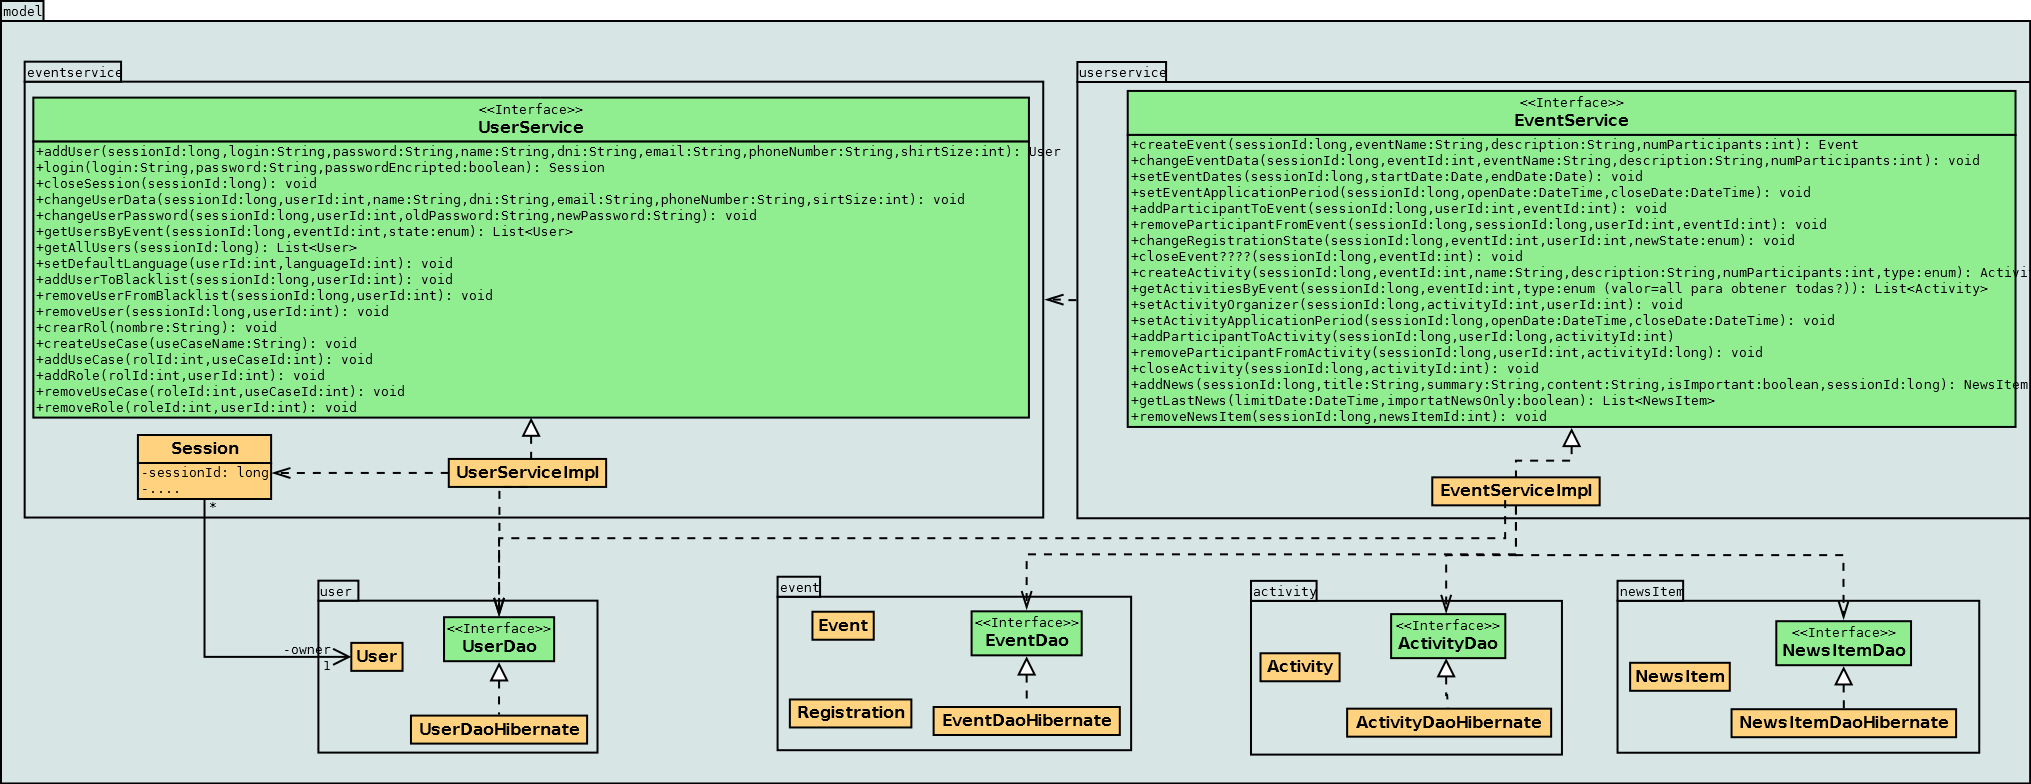
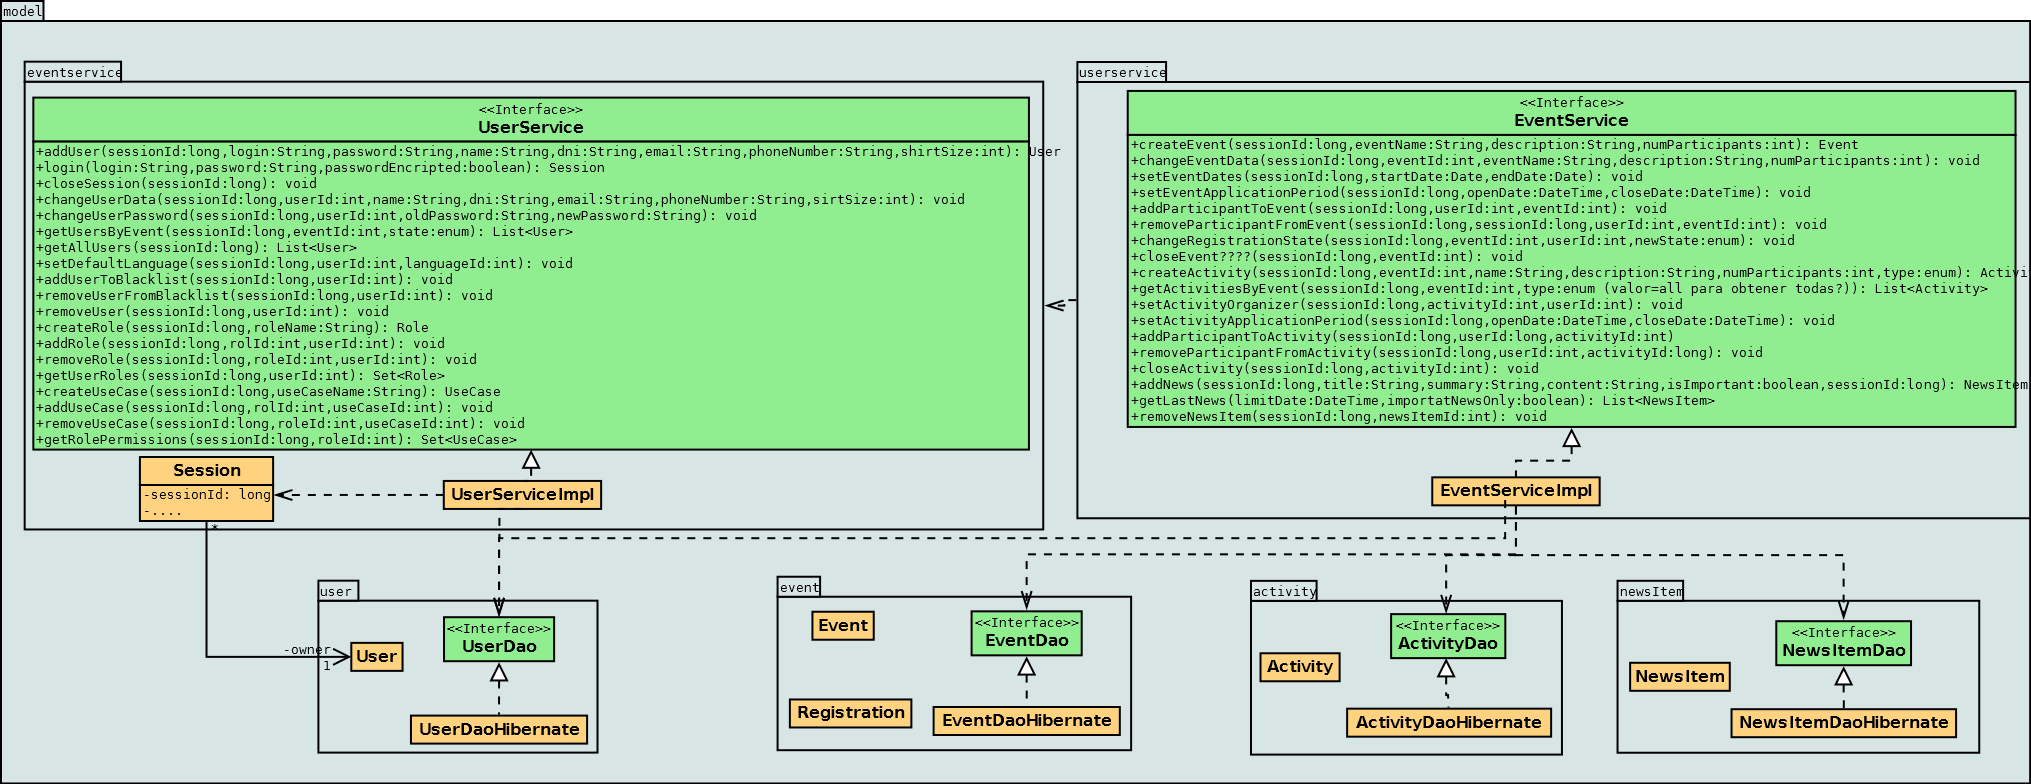
Añadidos mas métodos a UserService y corregidos algunos errores.

Changed region(s): [[0.0, 0.398, 0.5273, 0.7041], [0.4963, 0.3673, 0.5273, 0.398]]

diff --git a/src/main/java/es/ficonlan/web/backend/model/userservice/UserServiceImpl.java b/src/main/java/es/ficonlan/web/backend/model/userservice/UserServiceImpl.java
@@ -1,6 +1,7 @@
 package es.ficonlan.web.backend.model.userservice;
 
 import java.util.List;
+import java.util.Set;
 import java.util.concurrent.ConcurrentHashMap;
 
 import org.springframework.beans.factory.annotation.Autowired;
@@ -9,9 +10,12 @@ import org.springframework.transaction.annotation.Transactional;
 
 import es.ficonlan.web.backend.model.registration.Registration.RegistrationState;
 import es.ficonlan.web.backend.model.role.Role;
+import es.ficonlan.web.backend.model.role.RoleDao;
 import es.ficonlan.web.backend.model.useCase.UseCase;
+import es.ficonlan.web.backend.model.useCase.UseCaseDao;
 import es.ficonlan.web.backend.model.user.User;
 import es.ficonlan.web.backend.model.user.UserDao;
+import es.ficonlan.web.backend.model.util.exceptions.InstanceException;
 import es.ficonlan.web.backend.model.util.exceptions.ServiceException;
 
 /**
@@ -28,27 +32,51 @@ public class UserServiceImpl implements UserService {
 	@Autowired
 	private UserDao userDao;
 	
-	private boolean checkPermissions(Session session, String useCase) throws ServiceException {
+	@Autowired
+	private RoleDao roleDao;
+	
+	@Autowired
+	private UseCaseDao useCaseDao;
+
+	/**
+	 * If the target user of the operation is the session owner -> Operation allowed<br>
+	 * If the target user of the operation isn't the session owner -> Check permissions
+	 * 
+	 * @param sessionId
+	 * @param userId Id of the target user of the operation.
+	 * @param useCase
+	 * @throws ServiceException
+	 */
+	private void checkPermissions(long sessionId, int userId, String useCase) throws ServiceException{
+		if (!openSessions.containsKey(sessionId)) throw new ServiceException(01,useCase,"Invalid session");
+		Session session = openSessions.get(sessionId);
+		if (session.getUser().getUserId() != userId) checkPermissions(session, useCase);
+	}
+	
+	private void checkPermissions(long sessionId, String useCase) throws ServiceException {
+		if (!openSessions.containsKey(sessionId)) throw new ServiceException(01,useCase,"Invalid session");
+		checkPermissions(openSessions.get(sessionId), useCase);	
+	}
+	
+	private void checkPermissions(Session session, String useCase) throws ServiceException{
 		for(Role r:session.getUser().getRoles()){
 		    for (UseCase uc: r.getUseCases()){
-		    	if (uc.getUserCaseName().contentEquals("useCase")) return true;
+		    	if (uc.getUserCaseName().contentEquals(useCase)) return;
 		    }
 		}
-		return false;
+		throw new ServiceException(02, useCase,"Permission denied");	
 	}
 	
 	@Transactional
 	public User addUser(long sessionId, String name, String login, String password, String dni, String email, String phoneNumber, int shirtSize) throws ServiceException {
-		if (!openSessions.containsKey(sessionId)) throw new ServiceException(01,"addUser","Invalid session");
-		if(!checkPermissions(openSessions.get(sessionId),"addUser")) throw new ServiceException(02,"addUser","Permission denied");
-		User user;
-		user = userDao.findUserBylogin(login);
-		if (user != null)
-		throw new ServiceException(03,"addUser","Duplicted login");
-		else {
-		User u = new User(name, login, password, dni, email, phoneNumber, shirtSize);
-		userDao.save(u);
-		return u;
+		checkPermissions(sessionId, "addUser");
+		User user = userDao.findUserBylogin(login);
+		if (user != null){
+			throw new ServiceException(03,"addUser","Duplicted login");
+		} else {
+			User u = new User(name, login, password, dni, email, phoneNumber, shirtSize);
+			userDao.save(u);
+			return u;
 		}
 	}
 	
@@ -58,9 +86,9 @@ public class UserServiceImpl implements UserService {
 		User user = userDao.findUserBylogin(login);
 		if (user == null) throw new ServiceException(04,"login","Incorrect login");
 		else if (!password.contentEquals(user.getPassword()))  throw new ServiceException(05,"login","Incorrect password");
-		Session s = new Session(user);
-		openSessions.put(s.getSessionId(), s);
-		return s;
+		Session session = new Session(user);
+		openSessions.put(session.getSessionId(), session);
+		return session;
 	}
 
 	public void closeSession(long sessionId) throws ServiceException {
@@ -70,45 +98,176 @@ public class UserServiceImpl implements UserService {
 
 	@Transactional
 	public void changeUserData(long sessionId, int userId, String name, String dni, String email, String phoneNumber, int shirtSize) throws ServiceException {
-		if (!openSessions.containsKey(sessionId)) throw new ServiceException(01,"changeUserData","Invalid session");
-		Session session = openSessions.get(sessionId);
-		User user = session.getUser();
-		if (user.getUserId() != userId && !checkPermissions(session,"changeUserData")) throw new ServiceException(02,"changeUserData","Permission denied");
-		user.setName(name);
-		user.setDni(dni);
-		user.setEmail(email);
-		user.setPhoneNumber(phoneNumber);
-		user.setSirtSize(shirtSize);
-		userDao.save(user);
+		checkPermissions(sessionId, userId, "changeUserData");
+		try {
+			User user = userDao.find(userId);
+			user.setName(name);
+			user.setDni(dni);
+			user.setEmail(email);
+			user.setPhoneNumber(phoneNumber);
+			user.setSirtSize(shirtSize);
+			userDao.save(user);
+		} catch (InstanceException e) {
+			throw new  ServiceException(06,"changeUserData","User Not Found");
+		}
 	}
 
+	/**
+	 * Password changed by the user -> Old password required.<br> 
+	 * Password changed by an admin -> Old password not required.
+	 */
 	@Transactional
 	public void changeUserPassword(long sessionId, int userId, String oldPassword, String newPassword) throws ServiceException {
-		//TODO: Encriptado de passwords
-		if (!openSessions.containsKey(sessionId)) throw new ServiceException(01,"changeUserPassword","Invalid session");
+		checkPermissions(sessionId, userId, "changeUserPassword");
 		Session session = openSessions.get(sessionId);
-		User user = session.getUser();
-		if (user.getUserId() != userId && !checkPermissions(session,"changeUserData")) throw new ServiceException(02,"changeUserPassword","Permission denied");
-		// Password changed by the user -> Old password required. | Password changed by an admin -> Old password not required.
-		if(user.getUserId() == userId && !oldPassword.contentEquals(user.getPassword()))  throw new ServiceException(05,"changeUserPassword","Incorrect password"); 
-		user.setPassword(newPassword);
-		userDao.save(user);
+		try {
+			User user = userDao.find(userId);
+			if(session.getUser().getUserId() == userId && !oldPassword.contentEquals(user.getPassword()))  throw new ServiceException(05,"changeUserPassword","Incorrect password"); 
+			user.setPassword(newPassword);
+			userDao.save(user);
+		} catch (InstanceException e) {
+			throw new  ServiceException(06,"changeUserPassword","User Not Found");
+		}	
 	}
 
+	@Transactional(readOnly=true)
 	public List<User> getUsersByEvet(long sessionId, int eventId, RegistrationState state) throws ServiceException {
-		if (!openSessions.containsKey(sessionId)) throw new ServiceException(01,"getUsersByEvet","Invalid session");
-		if(!checkPermissions(openSessions.get(sessionId),"getAllUsers")) throw new ServiceException(02,"getUsersByEvet","Permission denied");
+		checkPermissions(sessionId, "getUsersByEvet");
 		return userDao.getUsersByEvet(eventId,state);
 	}
 	
 	@Transactional(readOnly=true)
 	public List<User> getAllUsers(long sessionId) throws ServiceException {
-		if (!openSessions.containsKey(sessionId)) throw new ServiceException(01,"getAllUsers","Invalid session");
-		if(!checkPermissions(openSessions.get(sessionId),"getAllUsers")) throw new ServiceException(02,"getAllUsers","Permission denied");
+		checkPermissions(sessionId, "getAllUsers");
 		return userDao.getAllUsers();
 	}
-	
-	
-	
 
+
+	public void setDefaultLanguage(long sessionId, int userId, int languageId) {
+		// TODO Auto-generated method stub
+		
+	}
+
+
+	public void addUserToBlackList(long sessionId, int userId) {
+		// TODO Auto-generated method stub
+		
+	}
+
+
+	public void removeUserFromBlackList(long sessionId, int userId) {
+		// TODO Auto-generated method stub
+		
+	}
+
+
+	@Transactional
+	public void removeUser(long sessionId, int userId) throws ServiceException {
+		checkPermissions(sessionId, "removeUser");
+		try {
+			User user = userDao.find(userId);
+			user.setDeleted(true);
+			userDao.save(user);
+		} catch (InstanceException e) {
+			throw new  ServiceException(06,"removeUser","User Not Found");
+		}
+	}
+
+	@Transactional
+	public Role createRole(long sessionId, String roleName) throws ServiceException {
+		checkPermissions(sessionId, "createRole");
+		Role role = new Role(roleName);
+		roleDao.save(role);
+		return role;
+	}
+
+	@Transactional
+	public void addRole(long sessionId, int roleId, int userId) throws ServiceException {
+		checkPermissions(sessionId, "addRole");
+		try {
+			User user = userDao.find(userId);
+			Role role = roleDao.find(roleId);
+			user.getRoles().add(role);
+			userDao.save(user);
+		} catch (InstanceException e) {
+			if (e.getClassName().contentEquals("User")) throw new  ServiceException(06,"addRole","User Not Found");
+			else throw new ServiceException(07,"addRole","Role Not Found");
+		}
+	}
+
+	@Transactional
+	public void removeRole(long sessionId, int roleId, int userId) throws ServiceException {
+		checkPermissions(sessionId, "removeRole");
+		try {
+			User user = userDao.find(userId);
+			Role role = roleDao.find(roleId);
+			user.getRoles().remove(role);
+			userDao.save(user);
+		} catch (InstanceException e) {
+			if (e.getClassName().contentEquals("User")) throw new  ServiceException(06,"removeRole","User Not Found");
+			else throw new  ServiceException(07,"removeRole","Role Not Found");
+		}
+		
+	}
+	
+	@Transactional(readOnly=true)
+	public Set<Role> getUserRoles(long sessionId, int userId) throws ServiceException {
+		checkPermissions(sessionId, "getUserRoles");
+		try {
+			User user = userDao.find(userId);
+			return user.getRoles();
+		} catch (InstanceException e) {
+			throw new  ServiceException(06,"getUserRoles","User Not Found");
+		}
+	}
+
+	@Transactional
+	public UseCase createUseCase(long sessionId, String useCaseName) throws ServiceException {
+		checkPermissions(sessionId, "createUseCase");
+		UseCase useCase = new UseCase(useCaseName);
+		useCaseDao.save(useCase);
+		return useCase;
+	}
+
+	@Transactional
+	public void addUseCase(long sessionId, int roleId, int useCaseId) throws ServiceException {
+		checkPermissions(sessionId, "addUseCase");
+		try {
+			Role role = roleDao.find(roleId);
+			UseCase useCase = useCaseDao.find(useCaseId);
+			role.getUseCases().add(useCase);
+			roleDao.save(role);
+		} catch (InstanceException e) {
+			if (e.getClassName().contentEquals("UseCase")) throw new  ServiceException(8,"addUseCase","User Case Not Found");
+			else throw new  ServiceException(07,"addUseCase","Role Not Found");
+		}
+		
+	}
+
+	@Transactional
+	public void removeUseCase(long sessionId, int roleId, int useCaseId) throws ServiceException {
+		checkPermissions(sessionId, "removeUseCase");
+		try {
+			Role role = roleDao.find(roleId);
+			UseCase useCase = useCaseDao.find(useCaseId);
+			role.getUseCases().remove(useCase);
+			roleDao.save(role);
+		} catch (InstanceException e) {
+			if (e.getClassName().contentEquals("UseCase")) throw new  ServiceException(8,"removeUseCase","User Case Not Found");
+			else throw new  ServiceException(07,"removeUseCase","Role Not Found");
+		}
+		
+	}
+
+	@Transactional(readOnly=true)	
+	public Set<UseCase> getRolePermissions(long sessionId, int roleId) throws ServiceException {
+		checkPermissions(sessionId, "getRolePermissions");
+		try {
+			Role role = roleDao.find(roleId);
+			return role.getUseCases();
+		} catch (InstanceException e) {
+			throw new  ServiceException(07,"getRolePermissions","Role Not Found");
+		}
+	}	
+	
 }

diff --git a/src/main/java/es/ficonlan/web/backend/model/userservice/UserService.java b/src/main/java/es/ficonlan/web/backend/model/userservice/UserService.java
@@ -1,8 +1,11 @@
 package es.ficonlan.web.backend.model.userservice;
 
 import java.util.List;
+import java.util.Set;
 
 import es.ficonlan.web.backend.model.registration.Registration.RegistrationState;
+import es.ficonlan.web.backend.model.role.Role;
+import es.ficonlan.web.backend.model.useCase.UseCase;
 import es.ficonlan.web.backend.model.user.User;
 import es.ficonlan.web.backend.model.util.exceptions.ServiceException;
 
@@ -25,5 +28,29 @@ public interface UserService {
 	public List<User> getUsersByEvet(long sessionId, int eventId, RegistrationState state)  throws ServiceException;
 	
 	public List<User> getAllUsers(long sessionId)  throws ServiceException;
+	
+	public void setDefaultLanguage(long sessionId, int userId, int languageId);
+	
+	public void addUserToBlackList(long sessionId, int userId);
+	
+	public void removeUserFromBlackList(long sessionId, int userId);
+	
+	public void removeUser(long sessionId, int userId) throws ServiceException;
+	
+	public Role createRole(long sessionId, String roleName) throws ServiceException;
+	
+	public void addRole(long sessionId, int roleId, int userId) throws ServiceException;
+	
+	public void removeRole(long sessionId, int roleId, int userId) throws ServiceException;
+	
+	public Set<Role> getUserRoles(long sessionId, int userId) throws ServiceException;
+	
+	public UseCase createUseCase(long sessionId, String useCaseName) throws ServiceException;
+	
+	public void addUseCase(long sessionId, int roleId, int useCaseId) throws ServiceException;
+	
+	public void removeUseCase(long sessionId, int roleId, int useCaseId) throws ServiceException;
+	
+	public Set<UseCase> getRolePermissions(long sessionId, int roleId) throws ServiceException;
 	
 }

diff --git a/src/main/java/es/ficonlan/web/backend/model/util/exceptions/ServiceException.java b/src/main/java/es/ficonlan/web/backend/model/util/exceptions/ServiceException.java
@@ -1,18 +1,19 @@
 package es.ficonlan.web.backend.model.util.exceptions;
 
-/* Exception Codes:
+/**
+ * Exception Codes:<br>
+ * 01 - Invalid session<br>
+ * 02 - Permission denied<br>
+ * 03 - Duplicated login<br>
+ * 04 - Incorrect login<br>
+ * 05 - Incorrect password<br>
+ * 06 - User Not Found<br>
+ * 07 - Role Not Found<br>
+ * 08 - User Case Not Found<br>
  * 
- * 01 - Invalid session
- * 02 - Permission denied
- * 03 - Duplicated login
- * 04 - Incorrect login
- * 05 - Incorrect password
- * 
- * 
- * 
- * 
+ * @author Daniel Gómez Silva
+ *
  */
-
 @SuppressWarnings("serial")
 public class ServiceException extends Exception{
 

diff --git a/src/main/java/es/ficonlan/web/backend/model/useCase/UseCaseDaoHibernate.java b/src/main/java/es/ficonlan/web/backend/model/useCase/UseCaseDaoHibernate.java
@@ -1,0 +1,9 @@
+package es.ficonlan.web.backend.model.useCase;
+
+import org.springframework.stereotype.Repository;
+import es.ficonlan.web.backend.model.util.dao.GenericDaoHibernate;
+
+@Repository("useCaseDao")
+public class UseCaseDaoHibernate extends GenericDaoHibernate<UseCase,Integer> implements UseCaseDao{
+
+}

diff --git a/src/main/java/es/ficonlan/web/backend/model/useCase/UseCaseDao.java b/src/main/java/es/ficonlan/web/backend/model/useCase/UseCaseDao.java
@@ -1,0 +1,7 @@
+package es.ficonlan.web.backend.model.useCase;
+
+import es.ficonlan.web.backend.model.util.dao.GenericDao;
+
+public interface UseCaseDao extends GenericDao<UseCase,Integer>{
+
+}
